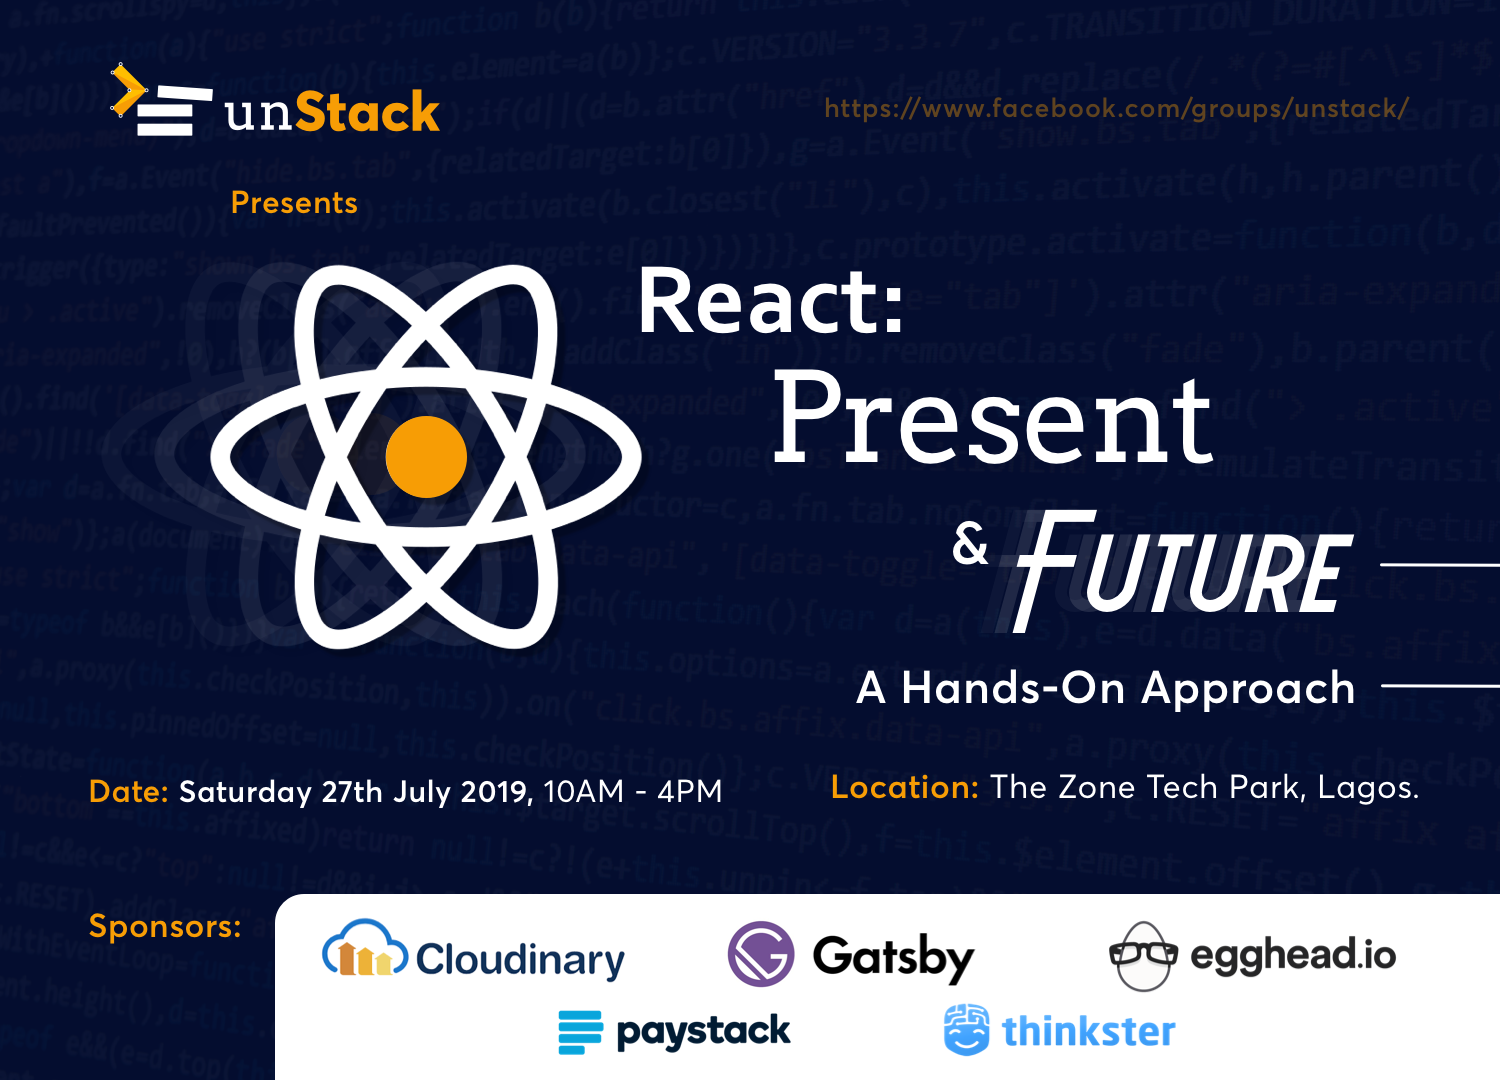
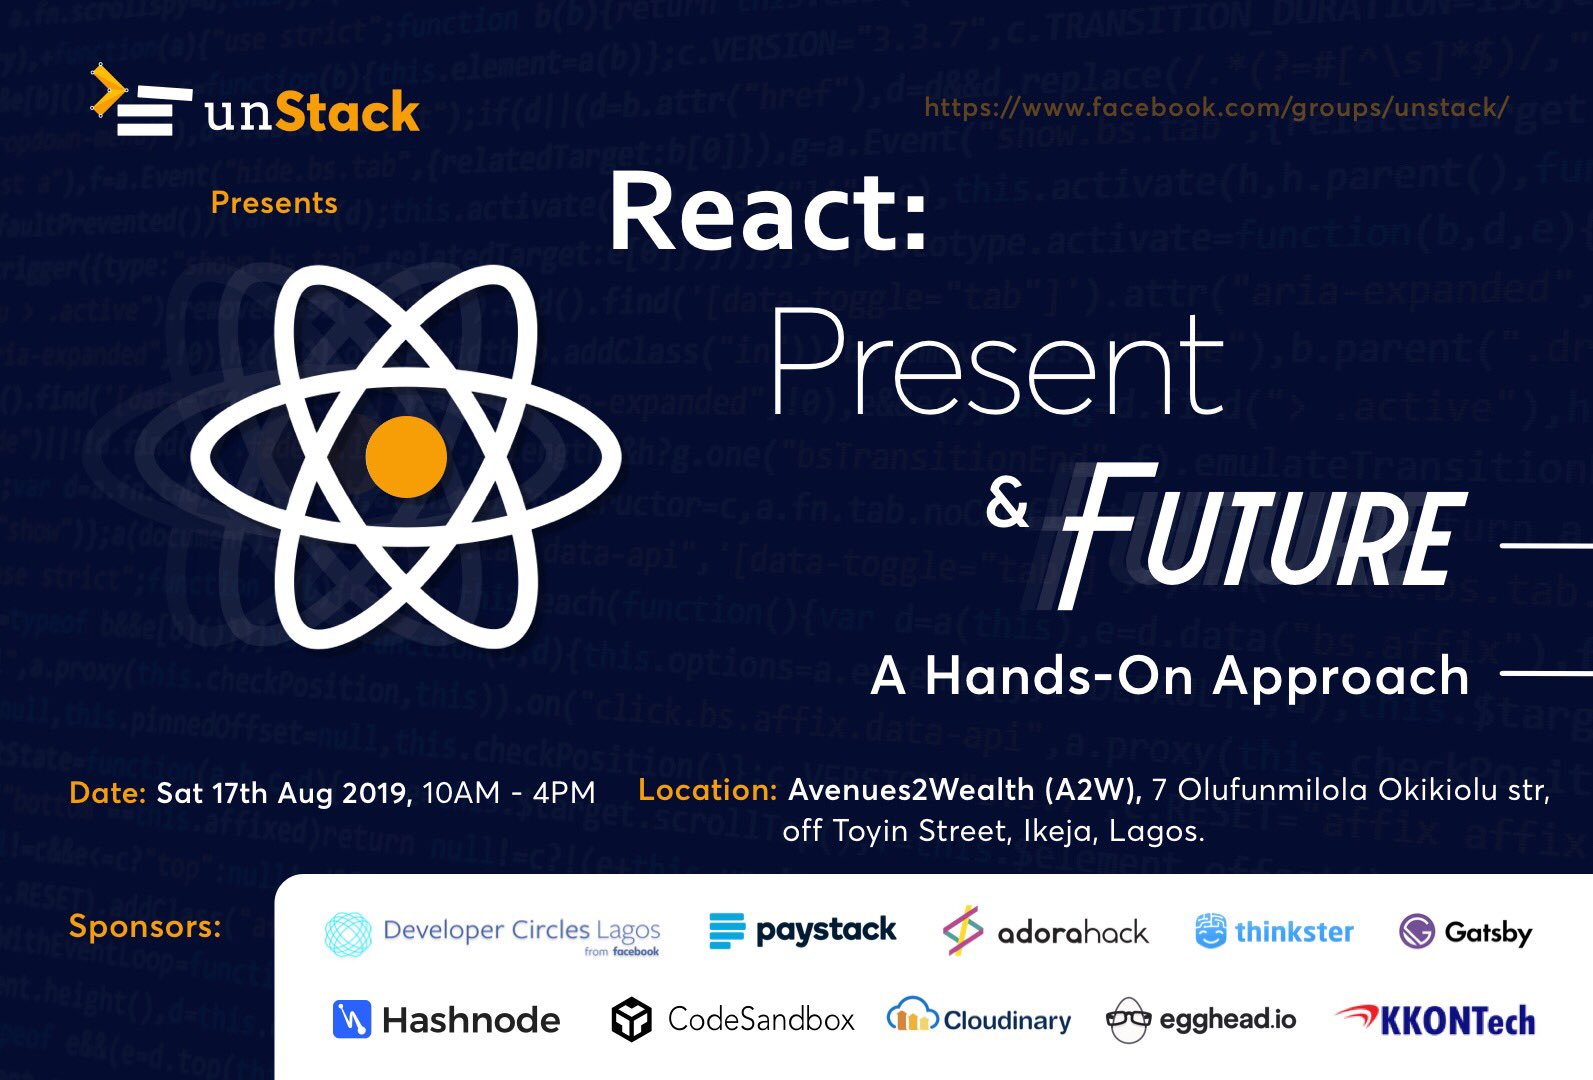
[fix] Added andela and fixed date issue

diff --git a/index.html b/index.html
@@ -302,7 +302,7 @@
                                 <div class="inner">
                                     <div class="info-box location">
                                         <span class="icon flaticon-location-pin"></span>
-                                        <div class="text">Zone Tech Park:<br> Plot 9 Gbagada Industrial Scheme, Beside UPS, Gbagada Expressway</div>
+                                        <div class="text">Avenues2Wealth(A2W):<br> Plot 9 Gbagada Industrial Scheme, Beside UPS, Gbagada Expressway</div>
                                     </div>
 
                                     <div class="info-box date">
@@ -337,7 +337,7 @@
                                 <div class="inner">
                                     <div class="info-box location">
                                         <span class="icon flaticon-location-pin"></span>
-                                        <div class="text">Zone Tech Park:<br> Plot 9 Gbagada Industrial Scheme, Beside UPS, Gbagada Expressway</div>
+                                        <div class="text">Avenues2Wealth(A2W):<br> Plot 9 Gbagada Industrial Scheme, Beside UPS, Gbagada Expressway</div>
                                     </div>
 
                                     <div class="info-box date">
@@ -905,6 +905,12 @@
                                 </a>
                             </figure>
                         </div>
+                         <div class="client-logo">
+                        <figure class="image">
+                            <a href="https://Andela.com" target="_blank"><img src="images/clients/andela.png"
+                                    alt=""></a>
+                        </figure>
+                    </div>
                         <div class="client-logo">
                             <figure class="image">
                                 <a href="https://paystack.com" target="_blank">
@@ -978,8 +984,7 @@
                                             Expressway.
                                             <br><br> Use <a href="https://lara.ng" target="_blank">lara.ng</a> to locate
                                             the
-                                            venue or take an Uber / Taxify(BOLT) with the location name <b>Zone
-                                                Tech Park</b></div>
+                                            venue or take an Uber / Taxify(BOLT) with the location name <b>Avenues2Wealth(A2W)</b></div>
                                     </div>
                                 </div>
 

diff --git a/schedule.html b/schedule.html
@@ -145,7 +145,7 @@
                         <div class="inner-column">
                             <div class="title-box">
                                 <h4>DAY 1</h4>
-                                <span>27th July, Saturday 2019 </span>
+                                <span>17th August, Saturday 2019 </span>
                             </div>
 
                             <!-- Author block -->
@@ -157,7 +157,7 @@
                                     </div>
                                     <div class="info">
                                         <h5 class="title"><a href="#">Our 2019 Awesome MC</a></h5>
-                                        <span class="date">10:00am, 27th july 2019</span>
+                                        <span class="date">10:00am, 17th August 2019</span>
                                     </div>
                                     <div class="text"></div>
                                 </div>
@@ -361,7 +361,7 @@
                                     </div>
                                     <div class="info">
                                         <h5 class="title"><a href="#">Closing </a></h5>
-                                        <span class="date">04:30pm 27th july 2019e</span>
+                                        <span class="date">04:30pm 17th August 2019e</span>
                                     </div>
                                 </div>
                             </div>

diff --git a/speakers.html b/speakers.html
@@ -964,6 +964,12 @@
                     </div>
                     <div class="client-logo">
                         <figure class="image">
+                            <a href="https://Andela.com" target="_blank"><img src="images/clients/andela.png"
+                                    alt=""></a>
+                        </figure>
+                    </div>
+                    <div class="client-logo">
+                        <figure class="image">
                             <a href="https://paystack.com" target="_blank"><img src="images/clients/paystack.png"
                                     alt=""></a>
                         </figure>

diff --git a/about.html b/about.html
@@ -351,6 +351,12 @@
                                 </a>
                             </figure>
                         </div>
+                         <div class="client-logo">
+                        <figure class="image">
+                            <a href="https://Andela.com" target="_blank"><img src="images/clients/andela.png"
+                                    alt=""></a>
+                        </figure>
+                    </div>
                         <div class="client-logo">
                             <figure class="image">
                                 <a href="https://paystack.com" target="_blank">
